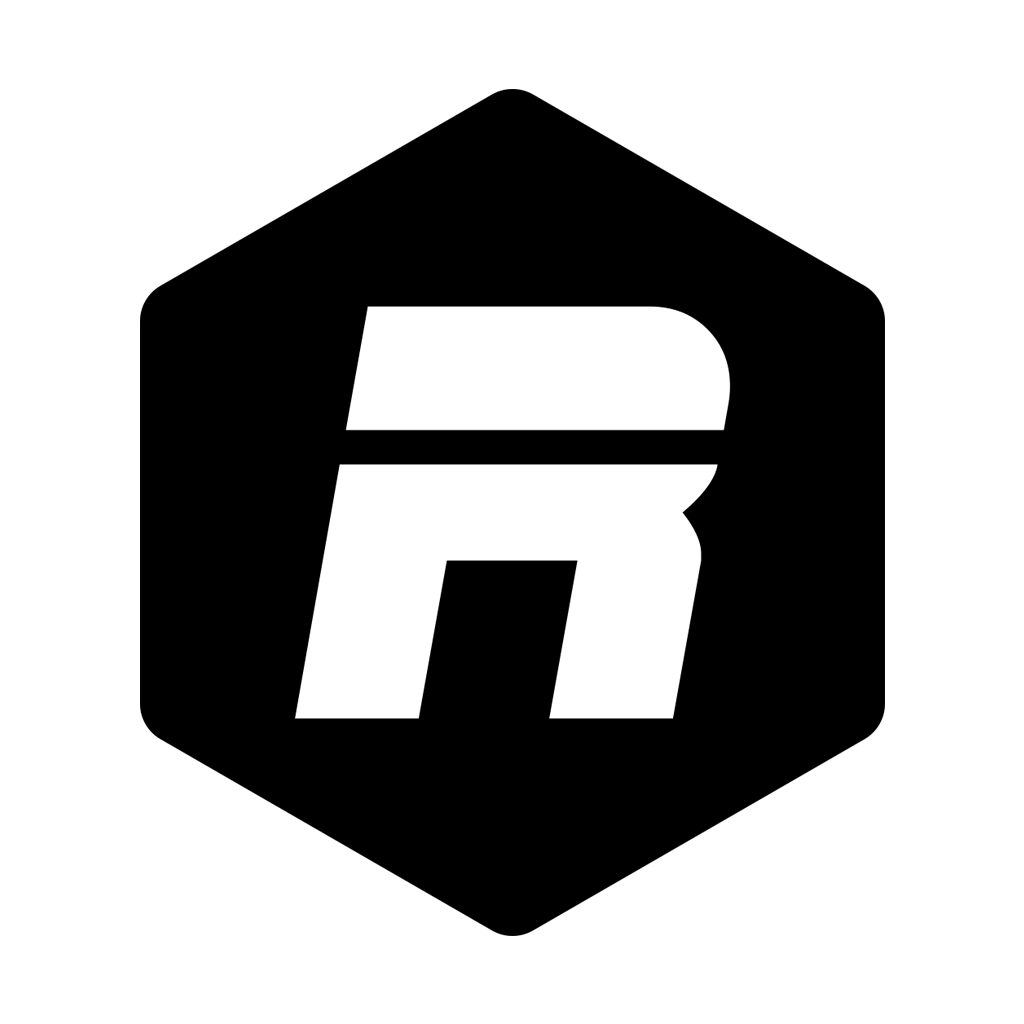
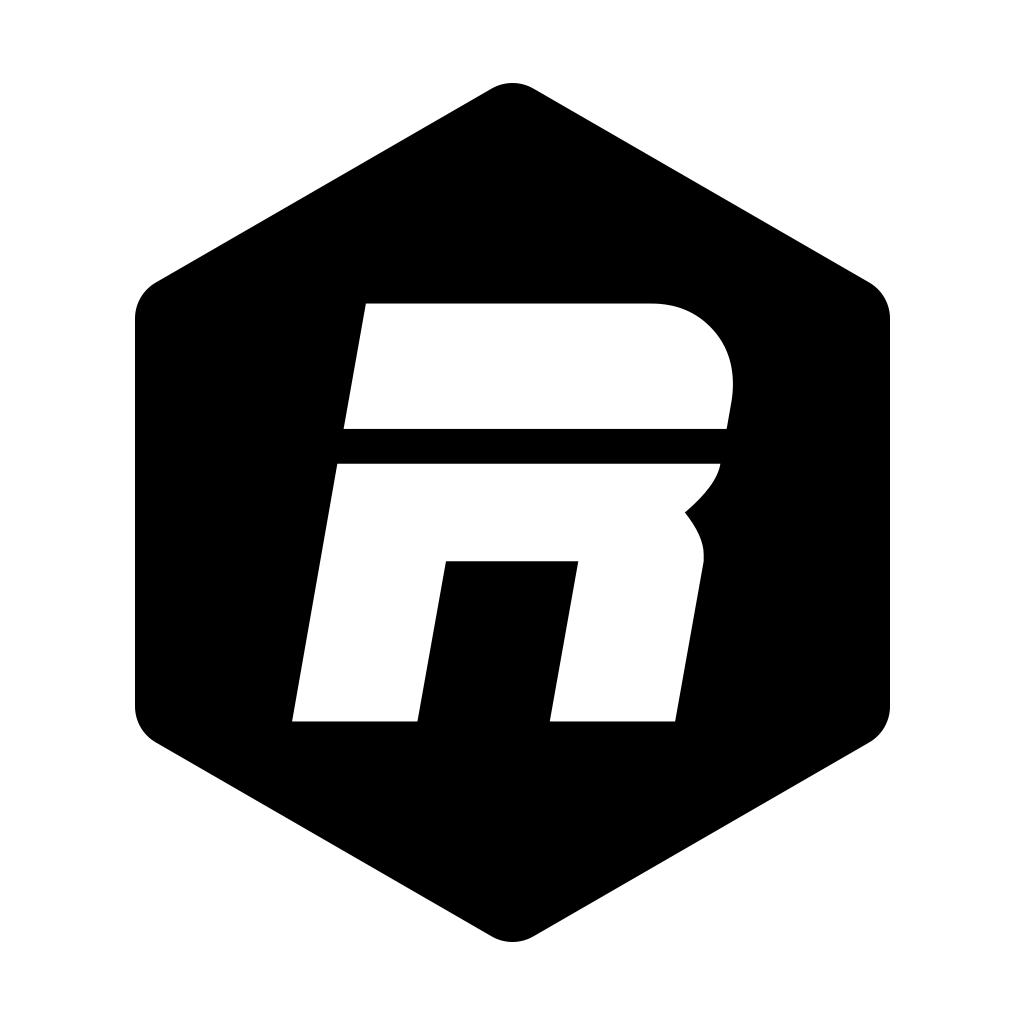
Alterado todos os ícones das plataformas em suas resoluções. Adicionado log para debug ao selecionar dia.

diff --git a/src/pages/quadra-infos/quadra-infos.ts b/src/pages/quadra-infos/quadra-infos.ts
@@ -150,14 +150,21 @@ export class QuadraInfosPage {
     // Cria vetor para descobrir qual dia da semana foi selecionado
     var semana = ["Domingo", "Segunda", "Terça", "Quarta", "Quinta", "Sexta", "Sabado"];
     var arr = dataSelecionada.split("/");
-    var contat = arr[1] + ' ' + arr[0] + ', ' + arr[2] + ' 00:00:00';
-    var teste = new Date(contat);
-    var dia = teste.getDay();
+    var concat = arr[1] + ' ' + arr[0] + ', ' + arr[2] + ' 00:00:00';
+    var newDate = new Date(concat);
+    var dia = newDate.getDay();
     diaSemanaSelecionado = semana[dia];
 
-    console.log('');
-    console.log('DIA SELECIONADO: ', diaSemanaSelecionado);
-    console.log('');
+    this.presentAlert(
+      'data que vem do botão: ' + data + '<br><br>' + 
+      'data transf. p/ Brasil: ' + dataSelecionada + '<br><br>' + 
+      'semana: ' + semana + '<br><br>' + 
+      'arr: ' + arr + '<br><br>' + 
+      'concat: ' + concat + '<br><br>' + 
+      'newDate: ' + newDate + '<br><br>' + 
+      'dia: ' + dia + '<br><br>' + 
+      'diaSemanaSelecionado: ' + diaSemanaSelecionado
+    );
 
     // Bloqueia botão caso o dia seja inválido
     if (this.diasFuncionamentoArray.indexOf(diaSemanaSelecionado) !== -1) {
@@ -326,6 +333,14 @@ export class QuadraInfosPage {
           this.horariosPesquisados = [];
         }
       }]
+    });
+    alert.present();
+  }
+
+  presentAlert(infos) {
+    let alert = this.alertCtrl.create({
+      message: infos,
+      buttons: ['OK']
     });
     alert.present();
   }
